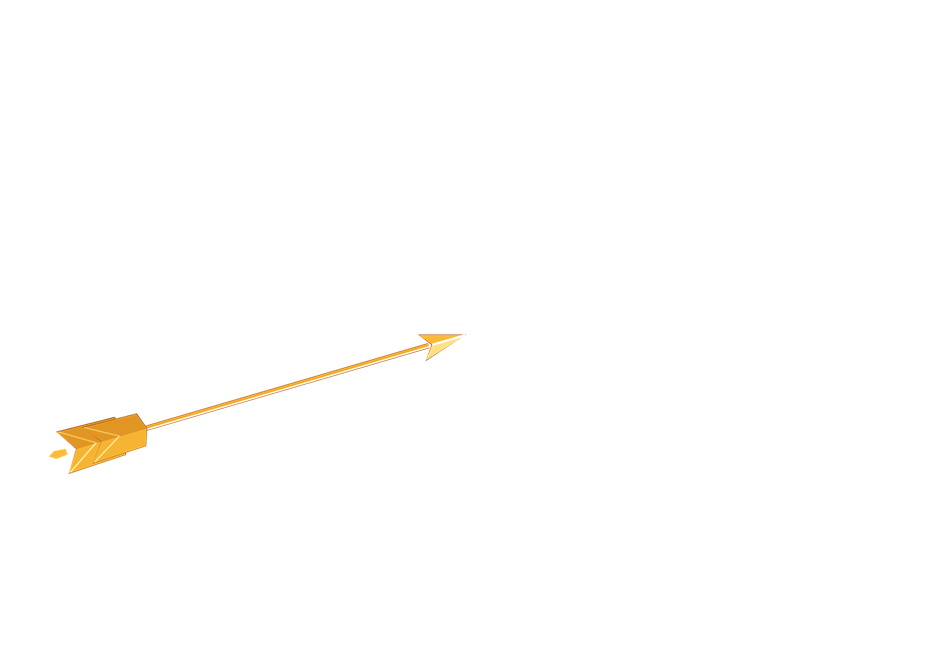
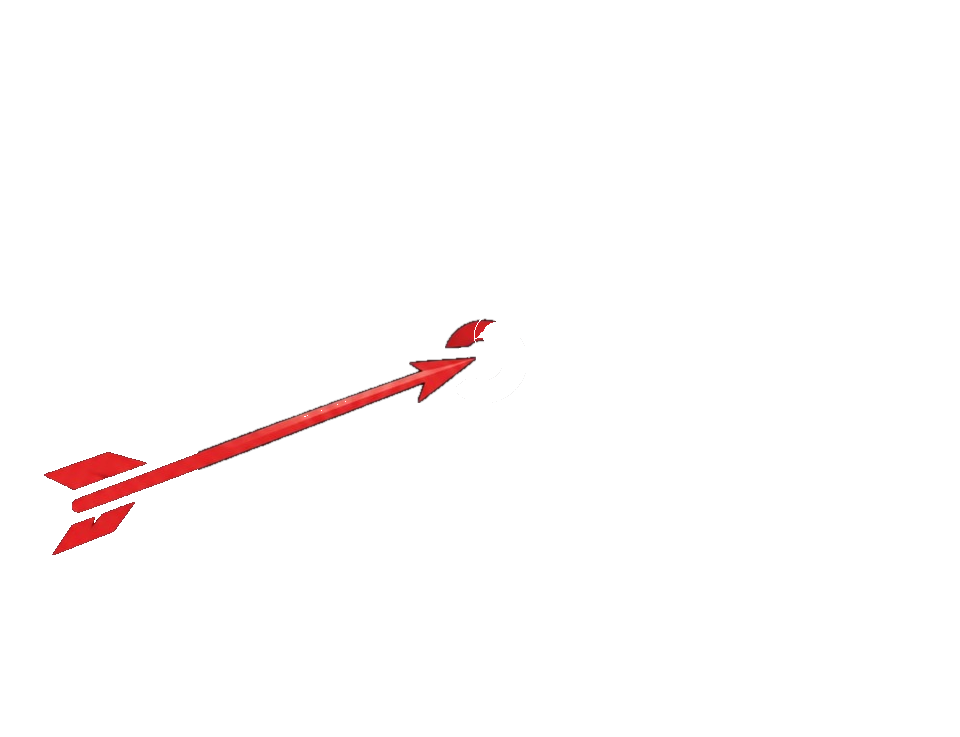
arrow fix

Changed region(s): [[0.0312, 0.4179, 0.5301, 0.7463]]

diff --git a/client/src/styles/hero.css b/client/src/styles/hero.css
@@ -282,44 +282,46 @@
   filter: drop-shadow(0 0 18px rgba(111, 199, 209, 0.7)) drop-shadow(0 0 42px rgba(235, 45, 80, 0.45));
 }
 
-/* ---------- Animated Flying Dart Striker (Option A) ---------- */
-.stage__dart-striker {
+/* ---------- Animated Flying Arrow Striker (completes letter 'A') ---------- */
+.stage__arrow-striker {
   position: absolute;
-  left: 50%;
-  top: 50%;
-  width: clamp(100px, calc(var(--stage) * 0.42), 195px);
-  height: auto;
+  inset: 0;
+  width: 100%;
+  height: 100%;
   pointer-events: none;
   z-index: 5;
-  transform-origin: 95.8% 39.5%;
-  animation: dartStrikeA 6.8s cubic-bezier(0.22, 1, 0.36, 1) infinite;
+  transform-origin: 52% 49.5%;
+  animation: arrowStrikeA 6.8s cubic-bezier(0.22, 1, 0.36, 1) infinite;
 }
 
-.stage__dart-img {
+.stage__arrow-img {
   width: 100%;
-  height: auto;
+  height: 100%;
+  object-fit: contain;
   display: block;
-  filter: drop-shadow(0 0 10px rgba(255, 51, 102, 0.9)) drop-shadow(0 0 24px rgba(255, 215, 0, 0.6));
+  filter: drop-shadow(0 0 8px rgba(255, 51, 102, 0.85)) drop-shadow(0 0 20px rgba(255, 215, 0, 0.45));
 }
 
-.stage__dart-trail {
+.stage__arrow-trail {
   position: absolute;
-  right: calc(100% - 15px);
-  top: 40%;
-  transform: translateY(-50%);
-  width: clamp(80px, 20vw, 160px);
+  left: 4.6%;
+  top: 70.1%;
+  width: clamp(70px, 18vw, 150px);
   height: 3px;
+  transform-origin: 100% 50%;
+  transform: translate(-100%, -50%) rotate(-20.2deg);
   background: linear-gradient(90deg, transparent 0%, rgba(111, 199, 209, 0.35) 25%, #ff3366 75%, #ffffff 100%);
   box-shadow: 0 0 12px #ff3366, 0 0 24px rgba(255, 215, 0, 0.7);
   border-radius: 999px;
   animation: trailVisibility 6.8s infinite;
+  pointer-events: none;
 }
 
 /* Concentric Impact Shockwave on Bullseye Hit */
 .stage__shockwave {
   position: absolute;
-  left: 50%;
-  top: 50%;
+  left: 52%;
+  top: 49.5%;
   width: 34px;
   height: 34px;
   border-radius: 50%;
@@ -458,57 +460,57 @@
   0% { box-shadow: 0 0 0 0 rgba(111, 199, 209, 0.7); }
   100% { box-shadow: 0 0 0 8px rgba(111, 199, 209, 0); }
 }
-@keyframes dartStrikeA {
+@keyframes arrowStrikeA {
   0% {
     opacity: 0;
-    transform: translate(-95.8%, -39.5%) translate3d(-460px, 195px, 0) scale(0.6) rotate(-22deg);
+    transform: translate3d(-380px, 140px, 0) scale(0.92);
   }
-  4% {
+  3% {
     opacity: 1;
-    transform: translate(-95.8%, -39.5%) translate3d(-300px, 128px, 0) scale(0.85) rotate(-22deg);
+    transform: translate3d(-240px, 88px, 0) scale(0.96);
   }
   11% {
     opacity: 1;
-    transform: translate(-95.8%, -39.5%) translate3d(-50px, 21px, 0) scale(1) rotate(-22deg);
+    transform: translate3d(-38px, 14px, 0) scale(1);
   }
   14% {
-    /* IMPACT */
+    /* IMPACT: Completes letter 'A' empty part with 100% precision and hits bullseye */
     opacity: 1;
-    transform: translate(-95.8%, -39.5%) translate3d(0, 0, 0) scale(1) rotate(-22deg);
+    transform: translate3d(0, 0, 0) scale(1) rotate(0deg);
   }
   15.5% {
-    /* Recoil flex down */
+    /* Elastic recoil flex around bullseye pivot */
     opacity: 1;
-    transform: translate(-95.8%, -39.5%) translate3d(0, 0, 0) scale(1) rotate(-28deg);
+    transform: translate3d(0, 0, 0) scale(1) rotate(-1.5deg);
   }
   17.5% {
-    /* Spring bounce up */
+    /* Spring bounce */
     opacity: 1;
-    transform: translate(-95.8%, -39.5%) translate3d(0, 0, 0) scale(1) rotate(-18deg);
+    transform: translate3d(0, 0, 0) scale(1) rotate(1deg);
   }
   20% {
     /* Micro dampening */
     opacity: 1;
-    transform: translate(-95.8%, -39.5%) translate3d(0, 0, 0) scale(1) rotate(-23.5deg);
+    transform: translate3d(0, 0, 0) scale(1) rotate(-0.3deg);
   }
   22.5% {
-    /* Rest in bullseye */
+    /* Settles perfectly completing letter 'A' */
     opacity: 1;
-    transform: translate(-95.8%, -39.5%) translate3d(0, 0, 0) scale(1) rotate(-22deg);
+    transform: translate3d(0, 0, 0) scale(1) rotate(0deg);
   }
-  75% {
-    /* Stay stuck firmly in bullseye for ~3.6s */
+  78% {
+    /* Stays firmly embedded in letter 'A' for ~3.8 seconds so AIMPACT looks complete & perfect */
     opacity: 1;
-    transform: translate(-95.8%, -39.5%) translate3d(0, 0, 0) scale(1) rotate(-22deg);
+    transform: translate3d(0, 0, 0) scale(1) rotate(0deg);
   }
-  82% {
+  84% {
     /* Smooth pull-back fade */
     opacity: 0;
-    transform: translate(-95.8%, -39.5%) translate3d(-18px, 8px, 0) scale(0.95) rotate(-22deg);
+    transform: translate3d(-14px, 5px, 0) scale(0.98) rotate(0deg);
   }
   100% {
     opacity: 0;
-    transform: translate(-95.8%, -39.5%) translate3d(-460px, 195px, 0) scale(0.6) rotate(-22deg);
+    transform: translate3d(-380px, 140px, 0) scale(0.92);
   }
 }
 
@@ -544,50 +546,50 @@
 }
 
 @media (max-width: 640px) {
-  @keyframes dartStrikeA {
+  @keyframes arrowStrikeA {
     0% {
       opacity: 0;
-      transform: translate(-95.8%, -39.5%) translate3d(-260px, 110px, 0) scale(0.6) rotate(-22deg);
+      transform: translate3d(-210px, 77px, 0) scale(0.92);
     }
-    4% {
+    3% {
       opacity: 1;
-      transform: translate(-95.8%, -39.5%) translate3d(-180px, 76px, 0) scale(0.85) rotate(-22deg);
+      transform: translate3d(-140px, 52px, 0) scale(0.96);
     }
     11% {
       opacity: 1;
-      transform: translate(-95.8%, -39.5%) translate3d(-40px, 17px, 0) scale(1) rotate(-22deg);
+      transform: translate3d(-24px, 9px, 0) scale(1);
     }
     14% {
       opacity: 1;
-      transform: translate(-95.8%, -39.5%) translate3d(0, 0, 0) scale(1) rotate(-22deg);
+      transform: translate3d(0, 0, 0) scale(1) rotate(0deg);
     }
     15.5% {
       opacity: 1;
-      transform: translate(-95.8%, -39.5%) translate3d(0, 0, 0) scale(1) rotate(-27deg);
+      transform: translate3d(0, 0, 0) scale(1) rotate(-1.5deg);
     }
     17.5% {
       opacity: 1;
-      transform: translate(-95.8%, -39.5%) translate3d(0, 0, 0) scale(1) rotate(-18deg);
+      transform: translate3d(0, 0, 0) scale(1) rotate(1deg);
     }
     20% {
       opacity: 1;
-      transform: translate(-95.8%, -39.5%) translate3d(0, 0, 0) scale(1) rotate(-23deg);
+      transform: translate3d(0, 0, 0) scale(1) rotate(-0.3deg);
     }
     22.5% {
       opacity: 1;
-      transform: translate(-95.8%, -39.5%) translate3d(0, 0, 0) scale(1) rotate(-22deg);
+      transform: translate3d(0, 0, 0) scale(1) rotate(0deg);
     }
-    75% {
+    78% {
       opacity: 1;
-      transform: translate(-95.8%, -39.5%) translate3d(0, 0, 0) scale(1) rotate(-22deg);
+      transform: translate3d(0, 0, 0) scale(1) rotate(0deg);
     }
-    82% {
+    84% {
       opacity: 0;
-      transform: translate(-95.8%, -39.5%) translate3d(-15px, 6px, 0) scale(0.95) rotate(-22deg);
+      transform: translate3d(-10px, 4px, 0) scale(0.98) rotate(0deg);
     }
     100% {
       opacity: 0;
-      transform: translate(-95.8%, -39.5%) translate3d(-260px, 110px, 0) scale(0.6) rotate(-22deg);
+      transform: translate3d(-210px, 77px, 0) scale(0.92);
     }
   }
 }

diff --git a/client/src/components/OrbitStage.jsx b/client/src/components/OrbitStage.jsx
@@ -23,21 +23,21 @@ export default function OrbitStage() {
             className="stage__target-img"
             draggable="false"
           />
-        </div>
 
-        {/* Dynamic Flying Dart that strikes the bullseye */}
-        <div className="stage__dart-striker" aria-hidden="true">
-          <div className="stage__dart-trail" />
-          <img
-            src="/dart.png"
-            alt=""
-            className="stage__dart-img"
-            draggable="false"
-          />
-        </div>
+          {/* Dynamic Flying Arrow that completes letter 'A' and strikes bullseye */}
+          <div className="stage__arrow-striker" aria-hidden="true">
+            <div className="stage__arrow-trail" />
+            <img
+              src="/aimpact-arrow.png"
+              alt=""
+              className="stage__arrow-img"
+              draggable="false"
+            />
+          </div>
 
-        {/* Concentric Impact Shockwave on Hit */}
-        <div className="stage__shockwave" aria-hidden="true" />
+          {/* Concentric Impact Shockwave on Hit */}
+          <div className="stage__shockwave" aria-hidden="true" />
+        </div>
       </div>
     </div>
   );
